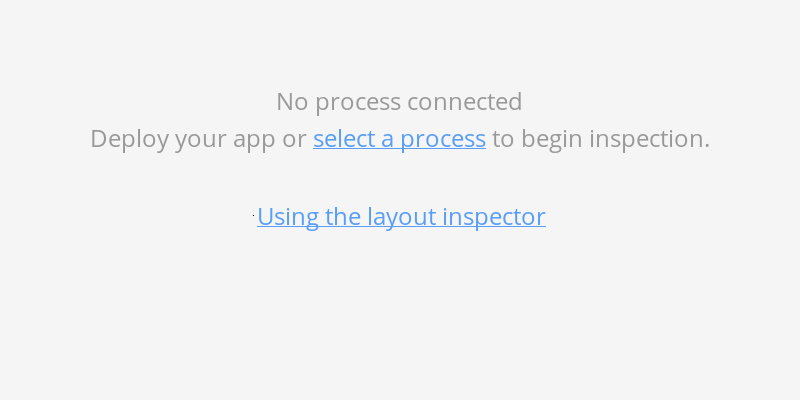
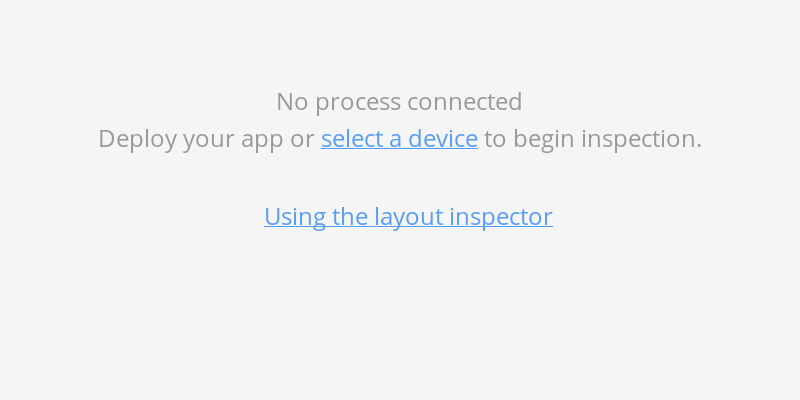
Enable auto-connect by default
Test: NA
Bug: NA

Changed region(s): [[0.0938, 0.33, 0.875, 0.39], [0.3125, 0.51, 0.6875, 0.6]]

diff --git a/layout-inspector/testSrc/com/android/tools/idea/layoutinspector/ui/DeviceViewPanelTest.kt b/layout-inspector/testSrc/com/android/tools/idea/layoutinspector/ui/DeviceViewPanelTest.kt
@@ -565,14 +565,19 @@ class DeviceViewPanelWithFullInspectorTest {
     waitForCondition(1, TimeUnit.SECONDS) { !contentPanel.showEmptyText }
 
     // Stop connecting, loading should stop
-    val selectProcessAction = contentPanel.selectTargetAction?.dropDownAction as? SelectProcessAction
-    selectProcessAction?.updateActions(mock())
+    val dropdownAction = contentPanel.selectTargetAction?.dropDownAction
+    if (dropdownAction is SelectProcessAction) {
+      dropdownAction.updateActions(mock())
+    }
+    else if (dropdownAction is SelectDeviceAction) {
+      dropdownAction.updateActions(mock())
+    }
     val actionEvent = mock<AnActionEvent>()
     whenever(actionEvent.actionManager).thenReturn(mock())
-    val stopAction = selectProcessAction?.getChildren(actionEvent)?.first { it.templateText == "Stop Inspector" }
+    val stopAction = dropdownAction?.getChildren(actionEvent)?.first { it.templateText == "Stop Inspector" }
     stopAction?.actionPerformed(mock())
 
-    waitForCondition(1, TimeUnit.SECONDS) { !loadingPane.isLoading }
+    waitForCondition(10, TimeUnit.SECONDS) { !loadingPane.isLoading }
     assertThat(contentPanel.showEmptyText).isTrue()
 
     // Release the response from the agent such that all waiting threads can complete (cleanup).
@@ -595,18 +600,33 @@ class DeviceViewPanelWithFullInspectorTest {
     )
 
     val selectTargetAction = flatten(panel).filterIsInstance<DeviceViewContentPanel>().first().selectTargetAction!!
-    val selectProcessAction = selectTargetAction.dropDownAction as SelectProcessAction
+    val dropDownAction = selectTargetAction.dropDownAction
     installCommandHandlers()
     connect(MODERN_PROCESS)
     inspectorRule.processNotifier.addDevice(LEGACY_DEVICE)
     inspectorRule.processNotifier.addDevice(OLDER_LEGACY_DEVICE)
-    selectProcessAction.updateActions(DataContext.EMPTY_CONTEXT)
-    val children = selectProcessAction.getChildren(null)
-    assertThat(children).hasLength(4)
-    checkDeviceAction(children[0], enabled = true, ICON_PHONE, "Google Modern Model")
-    checkDeviceAction(children[1], enabled = true, ICON_LEGACY_PHONE, "Google Legacy Model (Live inspection disabled for API < 29)")
-    checkDeviceAction(children[2], enabled = false, ICON_PHONE, "Google Older Legacy Model (Unsupported for API < 23)")
-    checkDeviceAction(children[3], enabled = true, StudioIcons.Shell.Toolbar.STOP, "Stop Inspector")
+    if (dropDownAction is SelectProcessAction) {
+      dropDownAction.updateActions(DataContext.EMPTY_CONTEXT)
+
+      val children = dropDownAction.getChildren(null)
+      assertThat(children).hasLength(4)
+      // not alphabetically sorted in SelectProcessAction
+      checkDeviceAction(children[0], enabled = true, ICON_PHONE, "Google Modern Model")
+      checkDeviceAction(children[1], enabled = true, ICON_LEGACY_PHONE, "Google Legacy Model (Live inspection disabled for API < 29)")
+      checkDeviceAction(children[2], enabled = false, ICON_PHONE, "Google Older Legacy Model (Unsupported for API < 23)")
+      checkDeviceAction(children[3], enabled = true, StudioIcons.Shell.Toolbar.STOP, "Stop Inspector")
+    }
+    else if (dropDownAction is SelectDeviceAction) {
+      dropDownAction.updateActions(DataContext.EMPTY_CONTEXT)
+
+      val children = dropDownAction.getChildren(null)
+      assertThat(children).hasLength(4)
+      // alphabetically sorted in SelectDeviceAction
+      checkDeviceAction(children[0], enabled = true, ICON_LEGACY_PHONE, "Google Legacy Model (Live inspection disabled for API < 29)")
+      checkDeviceAction(children[1], enabled = true, ICON_PHONE, "Google Modern Model")
+      checkDeviceAction(children[2], enabled = false, ICON_PHONE, "Google Older Legacy Model (Unsupported for API < 23)")
+      checkDeviceAction(children[3], enabled = true, StudioIcons.Shell.Toolbar.STOP, "Stop Inspector")
+    }
   }
 
   @RunsInEdt

diff --git a/layout-inspector/testSrc/com/android/tools/idea/layoutinspector/pipeline/appinspection/DebugViewAttributesTest.kt b/layout-inspector/testSrc/com/android/tools/idea/layoutinspector/pipeline/appinspection/DebugViewAttributesTest.kt
@@ -17,6 +17,7 @@ package com.android.tools.idea.layoutinspector.pipeline.appinspection
 
 import com.android.ddmlib.testing.FakeAdbRule
 import com.android.tools.idea.appinspection.inspector.api.process.ProcessDescriptor
+import com.android.tools.idea.flags.StudioFlags
 import com.android.tools.idea.layoutinspector.AdbServiceRule
 import com.android.tools.idea.layoutinspector.MODERN_DEVICE
 import com.android.tools.idea.layoutinspector.createProcess
@@ -46,7 +47,7 @@ class DebugViewAttributesTest {
   }
 
   @Test
-  fun testSetAndClear_perAppSetting() {
+  fun testSetAndClear_perAppSetting() = runWithFlagState(false) {
     val debugViewAttributes = DebugViewAttributes()
 
     assertThat(debugViewAttributes.set(projectRule.project, process)).isTrue()
@@ -61,7 +62,7 @@ class DebugViewAttributesTest {
   }
 
   @Test
-  fun testSetAndClearWhenPerDeviceIsZero_perAppSetting() {
+  fun testSetAndClearWhenPerDeviceIsZero_perAppSetting() = runWithFlagState(false) {
     val debugViewAttributes = DebugViewAttributes()
     commandHandler.debugViewAttributes = "0"
 
@@ -93,7 +94,7 @@ class DebugViewAttributesTest {
   }
 
   @Test
-  fun testSetAndClearWhenPerAppIsSet_perAppSetting() {
+  fun testSetAndClearWhenPerAppIsSet_perAppSetting() = runWithFlagState(false) {
     val debugViewAttributes = DebugViewAttributes()
     commandHandler.debugViewAttributesApplicationPackage = process.name
 
@@ -109,7 +110,7 @@ class DebugViewAttributesTest {
   }
 
   @Test
-  fun testSetAndClearWhenPerAppIsSetToDifferentProcess_perAppSetting() {
+  fun testSetAndClearWhenPerAppIsSetToDifferentProcess_perAppSetting() = runWithFlagState(false) {
     val debugViewAttributes = DebugViewAttributes()
     commandHandler.debugViewAttributesApplicationPackage = "com.example.MyOtherApp"
 
@@ -125,7 +126,7 @@ class DebugViewAttributesTest {
   }
 
   @Test
-  fun testClearWhenPerAppIsSetToDifferentProcess_perAppSetting() {
+  fun testClearWhenPerAppIsSetToDifferentProcess_perAppSetting() = runWithFlagState(false) {
     val debugViewAttributes = DebugViewAttributes()
 
     assertThat(debugViewAttributes.set(projectRule.project, process)).isTrue()
@@ -204,3 +205,15 @@ class DebugViewAttributesTest {
     assertThat(commandHandler.debugViewAttributesChangesCount).isEqualTo(2)
   }
 }
+
+private fun runWithFlagState(desiredFlagState: Boolean, task: () -> Unit) {
+  val flag = StudioFlags.DYNAMIC_LAYOUT_INSPECTOR_AUTO_CONNECT_TO_FOREGROUND_PROCESS_ENABLED
+  val flagPreviousState = flag.get()
+  flag.override(desiredFlagState)
+
+  task()
+
+  // restore flag state
+  flag.override(flagPreviousState)
+}
+

diff --git a/layout-inspector/testSrc/com/android/tools/idea/layoutinspector/pipeline/appinspection/AppInspectionInspectorClientTest.kt b/layout-inspector/testSrc/com/android/tools/idea/layoutinspector/pipeline/appinspection/AppInspectionInspectorClientTest.kt
@@ -397,7 +397,7 @@ class AppInspectionInspectorClientTest {
   }
 
   @Test
-  fun testViewDebugAttributesApplicationPackageSetAndReset() {
+  fun testViewDebugAttributesApplicationPackageSetAndReset() = runWithFlagState(false) {
     inspectorRule.attachDevice(MODERN_DEVICE)
     inspectorRule.processNotifier.fireConnected(MODERN_PROCESS)
     assertThat(inspectorRule.adbProperties.debugViewAttributesApplicationPackage).isEqualTo(MODERN_PROCESS.name)
@@ -415,7 +415,7 @@ class AppInspectionInspectorClientTest {
   }
 
   @Test
-  fun testViewDebugAttributesApplicationUntouchedIfAlreadySet() {
+  fun testViewDebugAttributesApplicationUntouchedIfAlreadySet() = runWithFlagState(false) {
     inspectorRule.adbProperties.debugViewAttributesApplicationPackage = MODERN_PROCESS.name
 
     inspectorRule.attachDevice(MODERN_DEVICE)
@@ -431,7 +431,7 @@ class AppInspectionInspectorClientTest {
   }
 
   @Test
-  fun testViewDebugAttributesApplicationPackageOverriddenAndReset() {
+  fun testViewDebugAttributesApplicationPackageOverriddenAndReset() = runWithFlagState(false) {
     inspectorRule.attachDevice(MODERN_PROCESS.device)
     inspectorRule.adbRule.bridge.executeShellCommand(MODERN_PROCESS.device,
                                                      "settings put global debug_view_attributes_application_package com.example.another-app")
@@ -446,7 +446,7 @@ class AppInspectionInspectorClientTest {
   }
 
   @Test
-  fun testViewDebugAttributesApplicationPackageNotOverriddenIfMatching() {
+  fun testViewDebugAttributesApplicationPackageNotOverriddenIfMatching() = runWithFlagState(false) {
     inspectorRule.attachDevice(MODERN_PROCESS.device)
     inspectorRule.adbRule.bridge.executeShellCommand(MODERN_PROCESS.device,
                                                      "settings put global debug_view_attributes_application_package ${MODERN_PROCESS.name}")
@@ -828,7 +828,7 @@ class AppInspectionInspectorClientTest {
   }
 
   @Test
-  fun testNoActivityRestartBannerShownWhenDebugAttributesAreAlreadySet() {
+  fun testNoActivityRestartBannerShownWhenDebugAttributesAreAlreadySet() = runWithFlagState(false) {
     inspectorRule.adbProperties.debugViewAttributesApplicationPackage = MODERN_PROCESS.name
     setUpRunConfiguration()
     preferredProcess = null

diff --git a/layout-inspector/testSrc/com/android/tools/idea/layoutinspector/LayoutInspectorToolWindowFactoryTest.kt b/layout-inspector/testSrc/com/android/tools/idea/layoutinspector/LayoutInspectorToolWindowFactoryTest.kt
@@ -20,7 +20,9 @@ import com.android.testutils.MockitoKt.any
 import com.android.testutils.MockitoKt.eq
 import com.android.testutils.MockitoKt.mock
 import com.android.testutils.MockitoKt.whenever
+import com.android.tools.adtui.model.FakeTimer
 import com.android.tools.adtui.workbench.WorkBench
+import com.android.tools.datastore.service.TransportService
 import com.android.tools.idea.appinspection.api.AppInspectionApiServices
 import com.android.tools.idea.appinspection.ide.AppInspectionDiscoveryService
 import com.android.tools.idea.appinspection.ide.ui.RecentProcess
@@ -36,6 +38,7 @@ import com.android.tools.idea.layoutinspector.ui.InspectorDeviceViewSettings
 import com.android.tools.idea.layoutinspector.util.ComponentUtil
 import com.android.tools.idea.layoutinspector.util.ReportingCountDownLatch
 import com.android.tools.idea.testing.AndroidProjectRule
+import com.android.tools.idea.transport.faketransport.FakeTransportService
 import com.google.common.truth.Truth.assertThat
 import com.google.common.util.concurrent.MoreExecutors
 import com.intellij.ide.DataManager
@@ -237,6 +240,7 @@ class LayoutInspectorToolWindowFactoryTest {
 
   @Test
   fun toolWindowFactoryCreatesCorrectSettings() {
+    ApplicationManager.getApplication().replaceService(com.android.tools.idea.transport.TransportService::class.java, mock(), inspectorRule.projectRule.testRootDisposable)
     inspectorRule.projectRule.replaceService(AppInspectionDiscoveryService::class.java, mock())
     whenever(AppInspectionDiscoveryService.instance.apiServices).thenReturn(inspectionRule.inspectionService.apiServices)
     val toolWindow = ToolWindowHeadlessManagerImpl.MockToolWindow(inspectorRule.project)

diff --git a/layout-inspector/testSrc/com/android/tools/idea/layoutinspector/ui/DeviceViewContentPanelTest.kt b/layout-inspector/testSrc/com/android/tools/idea/layoutinspector/ui/DeviceViewContentPanelTest.kt
@@ -63,6 +63,7 @@ import com.android.tools.idea.layoutinspector.view
 import com.android.tools.idea.layoutinspector.view.inspection.LayoutInspectorViewProtocol
 import com.android.tools.idea.layoutinspector.window
 import com.android.tools.idea.protobuf.ByteString
+import com.android.tools.idea.testing.IdeComponents
 import com.android.tools.layoutinspector.BitmapType
 import com.google.common.truth.Truth.assertThat
 import com.intellij.ide.BrowserUtil
@@ -1167,6 +1168,9 @@ class DeviceViewContentPanelTest {
 
 class DeviceViewContentPanelWithScaledFontTest {
   @get:Rule
+  val projectRule = ProjectRule()
+
+  @get:Rule
   val fontRule = SetPortableUiFontRule(2.0f)
 
   @get:Rule
@@ -1175,6 +1179,8 @@ class DeviceViewContentPanelWithScaledFontTest {
   @Test
   fun testPaintEmpty() {
     AssumeUtil.assumeNotMac() // b/163289116
+    AssumeUtil.assumeNotWindows() // b/246912759
+    ApplicationManager.getApplication().replaceService(ActionManager::class.java, mock(), disposable.disposable)
     val treeSettings = FakeTreeSettings()
     treeSettings.hideSystemNodes = false
     val model = model {}

diff --git a/layout-inspector/testSrc/com/android/tools/idea/layoutinspector/LayoutInspectorLaunchTaskContributorTest.kt b/layout-inspector/testSrc/com/android/tools/idea/layoutinspector/LayoutInspectorLaunchTaskContributorTest.kt
@@ -88,7 +88,7 @@ class LayoutInspectorLaunchTaskContributorTest {
   }
 
   @Test
-  fun testLaunchWithDebugAttributes() {
+  fun testLaunchWithDebugAttributes() = runWithFlagState(false) {
     val (iDevice, task) = createLaunchTask(MODERN_DEVICE, debugAttributes = true)
 
     // Start the process
@@ -110,7 +110,7 @@ class LayoutInspectorLaunchTaskContributorTest {
   }
 
   @Test
-  fun testLaunchWithDebugAttributesAlreadySet() {
+  fun testLaunchWithDebugAttributesAlreadySet() = runWithFlagState(false) {
     commandHandler.debugViewAttributesApplicationPackage = PROCESS_NAME
 
     val (iDevice, task) = createLaunchTask(MODERN_DEVICE, debugAttributes = true)
@@ -154,7 +154,7 @@ class LayoutInspectorLaunchTaskContributorTest {
   }
 
   @Test
-  fun testLaunchDebugSessionWithDebugAttributes() {
+  fun testLaunchDebugSessionWithDebugAttributes() = runWithFlagState(false) {
     val (iDevice, task) = createLaunchTask(MODERN_DEVICE, debugAttributes = true)
 
     // Start the process

diff --git a/layout-inspector/testSrc/com/android/tools/idea/layoutinspector/pipeline/TransportDeviceManagerListenerTest.kt b/layout-inspector/testSrc/com/android/tools/idea/layoutinspector/pipeline/TransportDeviceManagerListenerTest.kt
@@ -23,13 +23,13 @@ import org.junit.Test
 class TransportDeviceManagerListenerTest {
 
   @Test
-  fun flagIsDisabledByDefault() {
+  fun flagIsEnabledByDefault() {
     val transportDeviceManagerListener = TransportDeviceManagerListenerImpl()
     val daemonConfig = Transport.DaemonConfig.newBuilder()
     transportDeviceManagerListener.customizeDaemonConfig(daemonConfig)
 
     assertThat(daemonConfig.hasLayoutInspectorConfig()).isTrue()
-    assertThat(daemonConfig.layoutInspectorConfig.autoconnectEnabled).isFalse()
+    assertThat(daemonConfig.layoutInspectorConfig.autoconnectEnabled).isTrue()
   }
 
   @Test

diff --git a/android-common/src/com/android/tools/idea/flags/StudioFlags.java b/android-common/src/com/android/tools/idea/flags/StudioFlags.java
@@ -820,7 +820,7 @@ public final class StudioFlags {
   public static final Flag<Boolean> DYNAMIC_LAYOUT_INSPECTOR_AUTO_CONNECT_TO_FOREGROUND_PROCESS_ENABLED = Flag.create(
     LAYOUT_INSPECTOR, "dynamic.layout.inspector.enable.auto.connect.foreground", "Enable automatically connecting to foreground process",
     "When this flag is enabled, LayoutInspector will automatically connect to whatever debuggable process is in the foreground on the phone.",
-    false);
+    true);
 
   public static final Flag<String> DYNAMIC_LAYOUT_INSPECTOR_COMPOSE_UI_INSPECTION_DEVELOPMENT_FOLDER = Flag.create(
     LAYOUT_INSPECTOR, "dev.jar.location", "Location of prebuilt compose app inspection jar for development",
